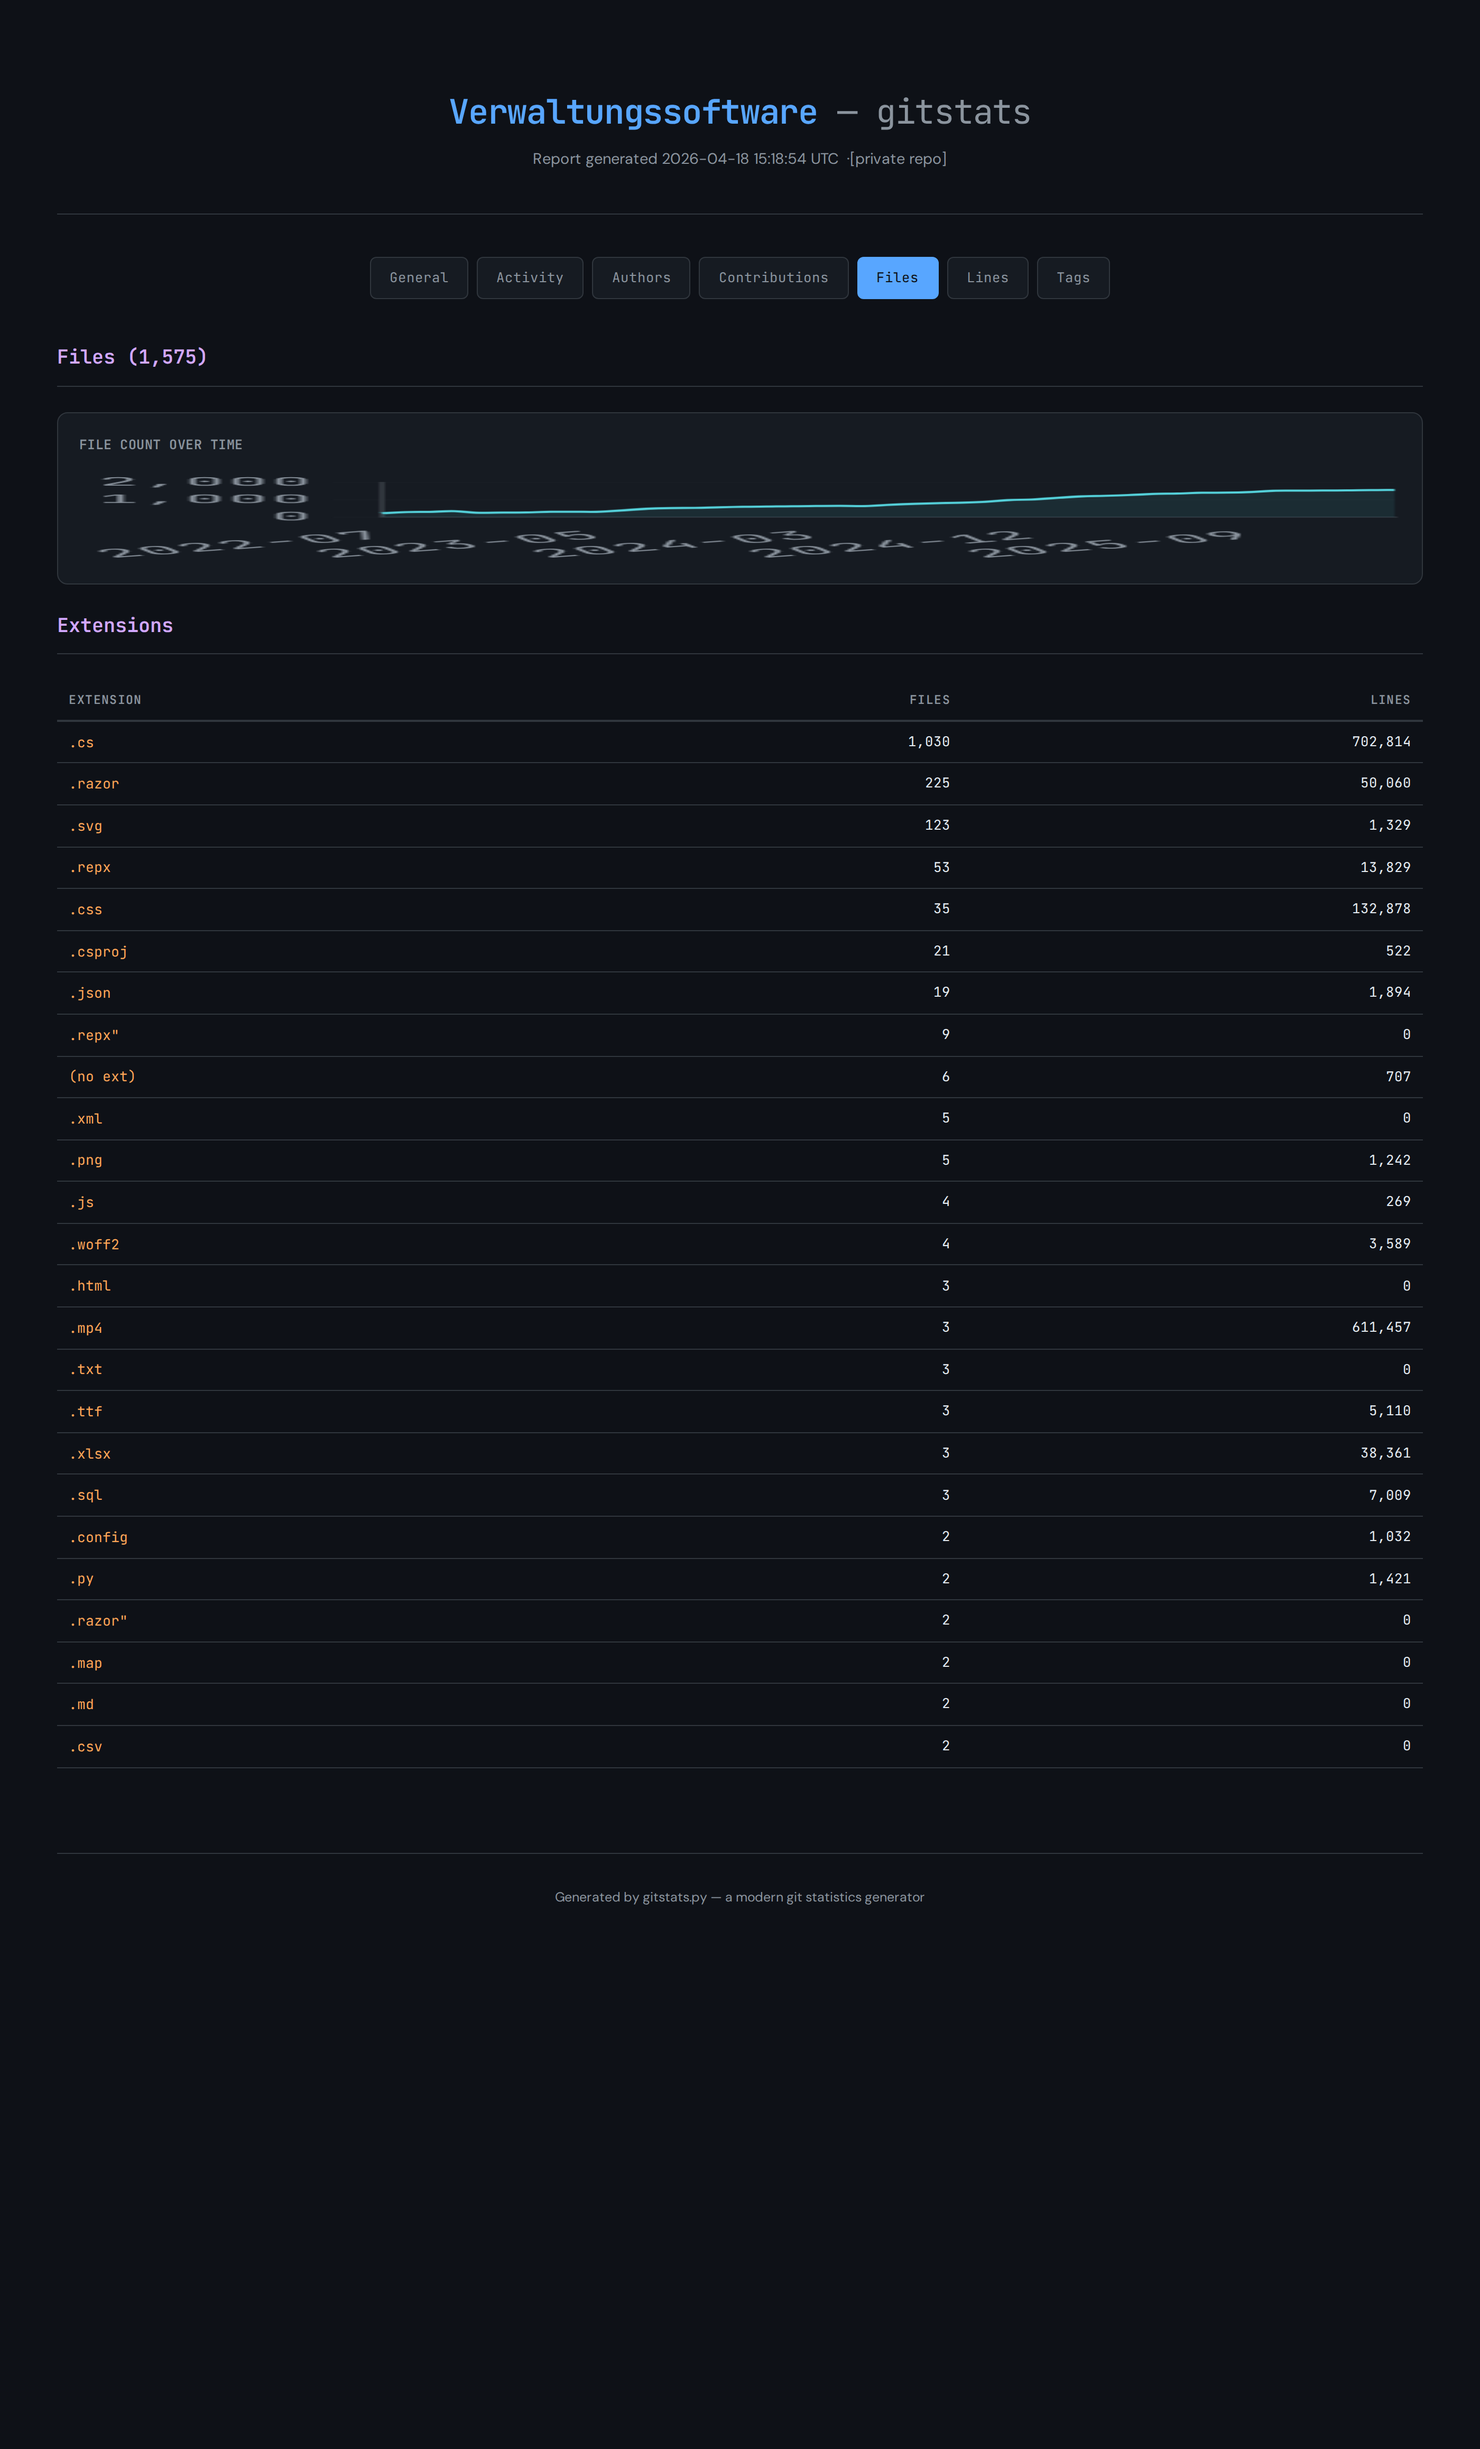
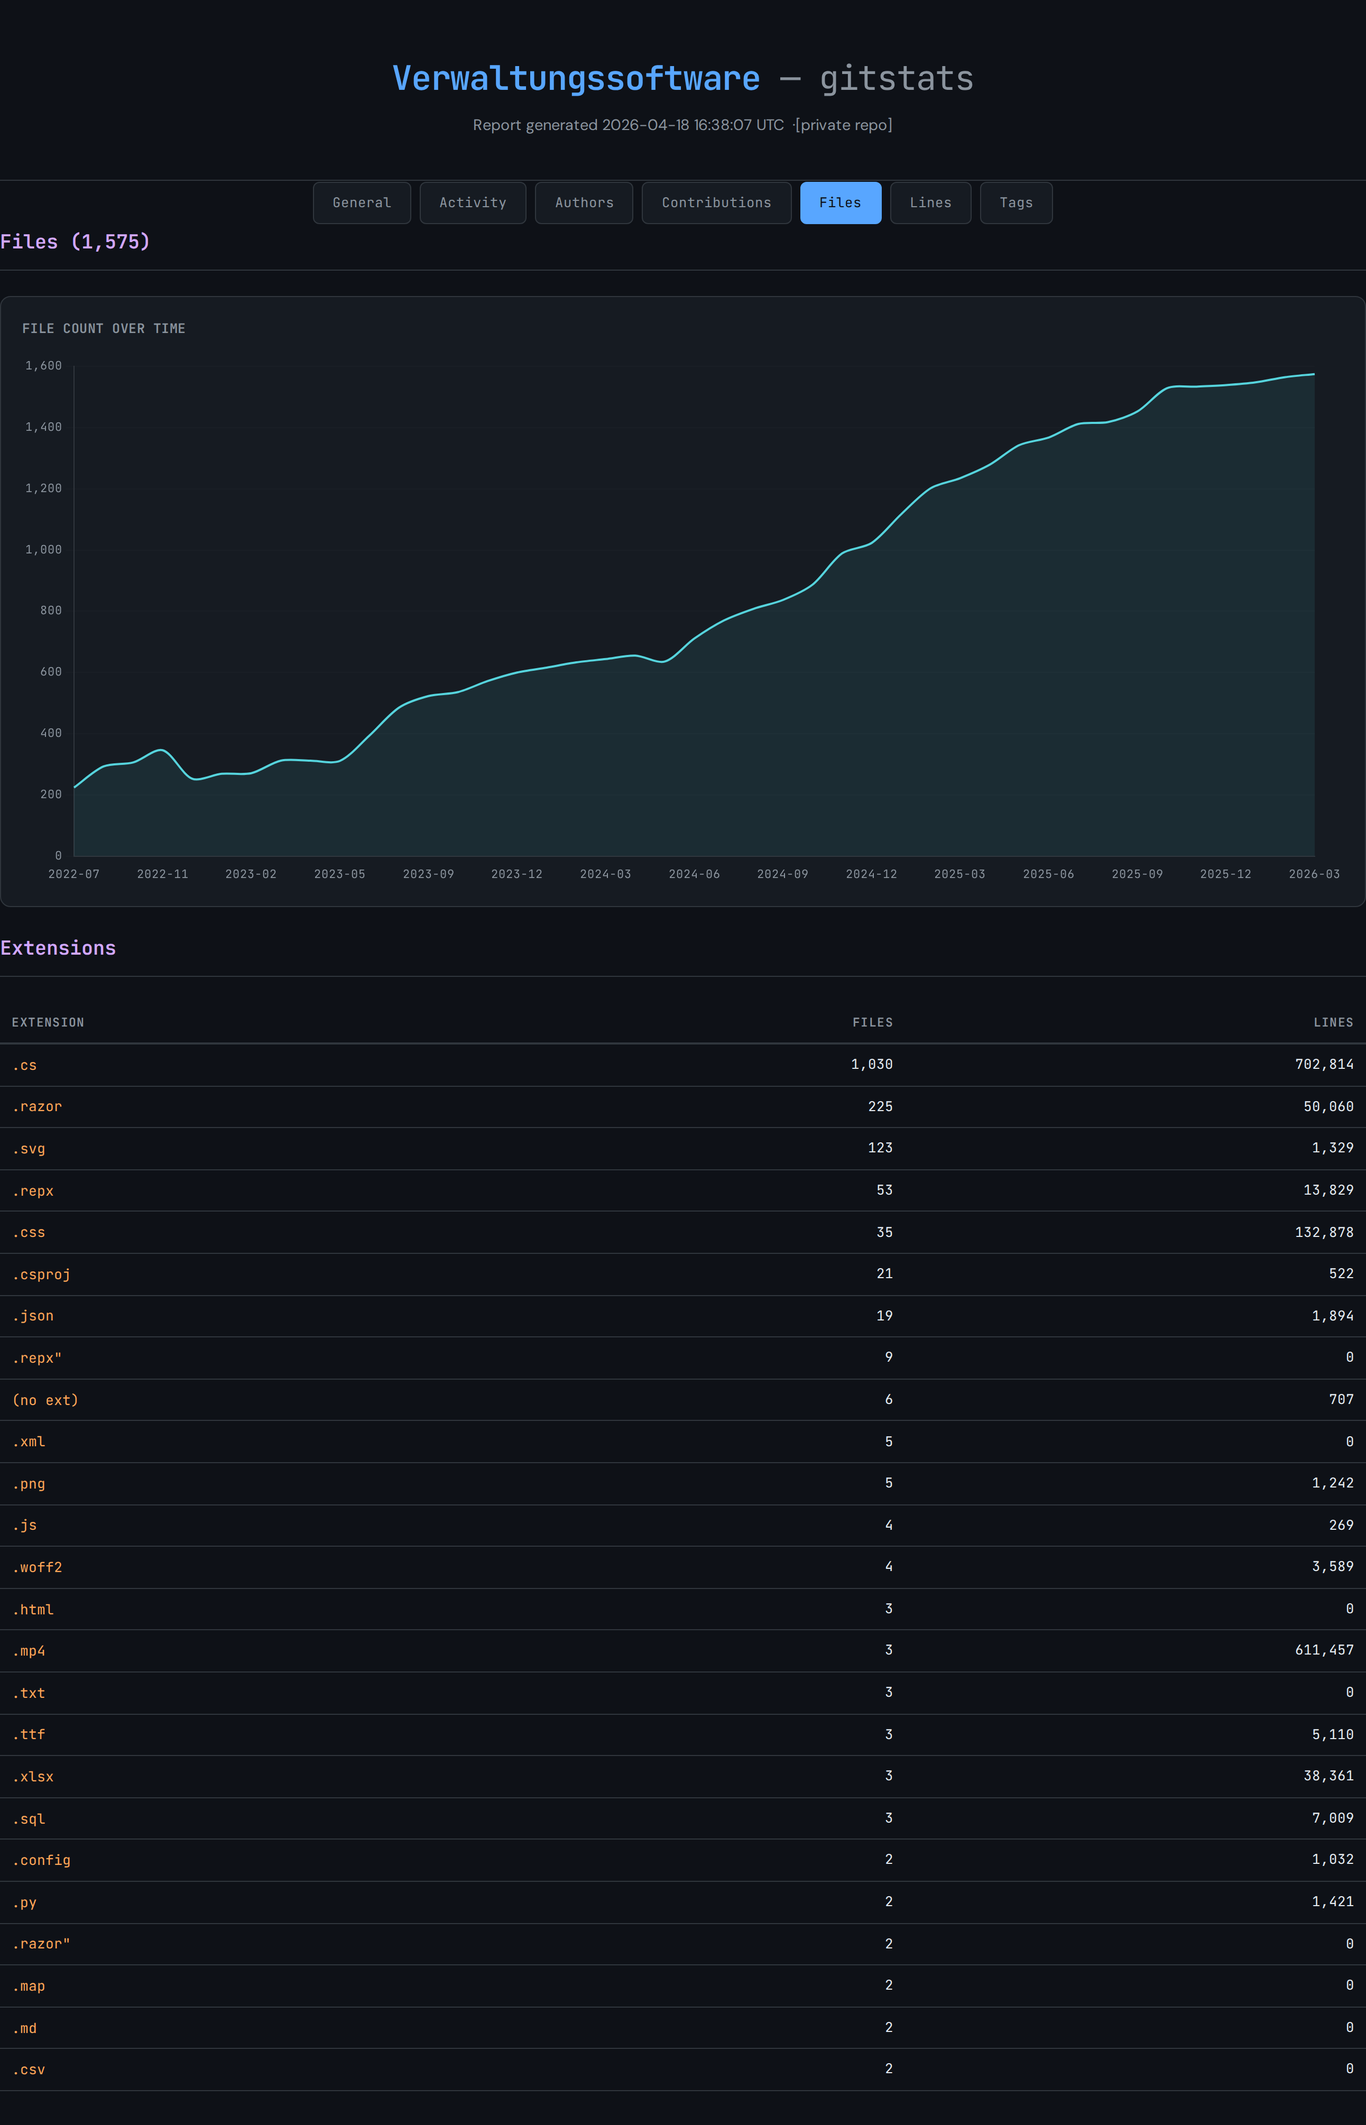
Fix chart rendering in screenshots and add CLAUDE.md
Charts rendered inside display:none sections measured 0-width containers,
producing broken axis layouts. Fix: patch HTML to show all sections before
load, init all charts at correct width, then element-screenshot each section
and PIL-composite with header+nav — no show/hide toggling during capture.

diff --git a/docs/sample_report.html b/docs/sample_report.html
@@ -391,7 +391,7 @@ footer {
 
 <header>
     <h1>REDACTED_REPO <span>— gitstats</span></h1>
-    <p>Report generated 2026-04-18 15:18:54 UTC &nbsp;·[private repo]</p>
+    <p>Report generated 2026-04-18 16:38:07 UTC &nbsp;·[private repo]</p>
 </header>
 
 <nav>

diff --git a/docs/screenshot.py b/docs/screenshot.py
@@ -170,6 +170,20 @@ def obfuscate(html: str) -> str:
 async def take_screenshots(html_path: Path):
     from playwright.async_api import async_playwright
 
+    # Patch the HTML so ALL sections are display:block before any JS runs.
+    # Charts inside display:none measure 0-width → broken axis layouts.
+    # We keep all sections visible throughout and clip each screenshot to
+    # the relevant section's bounding box — no show/hide toggling at all.
+    patched_path = html_path.parent / (html_path.stem + '_screenshot.html')
+    src = html_path.read_text(encoding='utf-8')
+    src = src.replace(
+        '</head>',
+        '<style>.section{display:block!important}</style></head>',
+        1,
+    )
+    # Also pre-mark all sections active so nav highlights look right per screenshot
+    patched_path.write_text(src, encoding='utf-8')
+
     async with async_playwright() as p:
         browser = await p.chromium.launch()
         page = await browser.new_page(
@@ -177,33 +191,65 @@ async def take_screenshots(html_path: Path):
             device_scale_factor=2,
         )
 
-        await page.goto(f'file://{html_path}', wait_until='networkidle')
-        await page.wait_for_timeout(2000)  # fonts + initial render
+        await page.goto(f'file://{patched_path}', wait_until='networkidle')
+        await page.wait_for_timeout(500)
+
+        # Trigger every section's lazy init — all visible, correct widths.
+        await page.evaluate('''
+            Object.keys(sectionInits).forEach(sec => {
+                if (!_init[sec]) { _init[sec] = true; sectionInits[sec](); }
+            });
+        ''')
+
+        # Scroll full page slowly so every chart renders and animates.
+        scroll_y = 0
+        total_h = await page.evaluate('document.documentElement.scrollHeight')
+        while scroll_y < total_h:
+            scroll_y = min(scroll_y + 600, total_h)
+            await page.evaluate(f'window.scrollTo(0, {scroll_y})')
+            await page.wait_for_timeout(120)
+            total_h = await page.evaluate('document.documentElement.scrollHeight')
+        await page.evaluate('window.scrollTo(0, 0)')
+        await page.wait_for_timeout(2000)
 
         for sec_name, filename in SECTIONS:
             print(f'  {sec_name}...')
 
-            await page.click(f'nav a[data-sec="{sec_name}"]')
-            await page.evaluate('window.scrollTo(0, 0)')
-            await page.wait_for_timeout(800)
+            # Highlight the correct nav tab
+            await page.evaluate(f'''
+                document.querySelectorAll("nav a").forEach(a =>
+                    a.classList.toggle("active", a.dataset.sec === "{sec_name}"));
+            ''')
+            await page.wait_for_timeout(200)
 
-            # Scroll slowly to trigger lazy chart inits
-            scroll_y = 0
-            total_h = await page.evaluate('document.documentElement.scrollHeight')
-            while scroll_y < total_h:
-                scroll_y = min(scroll_y + 600, total_h)
-                await page.evaluate(f'window.scrollTo(0, {scroll_y})')
-                await page.wait_for_timeout(150)
-                total_h = await page.evaluate('document.documentElement.scrollHeight')
+            # Build a composite: screenshot the sticky top bar + the section element.
+            # We render the top (header+nav) and section separately then paste them.
+            top_el = await page.query_selector('header')
+            nav_el = await page.query_selector('nav')
+            sec_el = await page.query_selector(f'#sec-{sec_name}')
 
-            await page.evaluate('window.scrollTo(0, 0)')
-            await page.wait_for_timeout(1500)
+            top_img_bytes  = await top_el.screenshot()
+            nav_img_bytes  = await nav_el.screenshot()
+            sec_img_bytes  = await sec_el.screenshot()
+
+            from PIL import Image
+            import io
+            top_img = Image.open(io.BytesIO(top_img_bytes))
+            nav_img = Image.open(io.BytesIO(nav_img_bytes))
+            sec_img = Image.open(io.BytesIO(sec_img_bytes))
+
+            total_h = top_img.height + nav_img.height + sec_img.height
+            composite = Image.new('RGB', (sec_img.width, total_h), (13, 17, 23))
+            composite.paste(top_img, (0, 0))
+            composite.paste(nav_img, (0, top_img.height))
+            composite.paste(sec_img, (0, top_img.height + nav_img.height))
 
             out = SCRIPT_DIR / filename
-            await page.screenshot(path=str(out), full_page=True)
+            composite.save(str(out))
             print(f'    → {out}')
 
         await browser.close()
+        patched_path.unlink(missing_ok=True)
 
 # ── Main ──────────────────────────────────────────────────────────────────────
 

diff --git a/current-CLAUDE.md b/current-CLAUDE.md
@@ -1,0 +1,101 @@
+# CLAUDE.md — gitstats (working copy)
+
+> **Versioning**: This file (`current-CLAUDE.md`) tracks in-progress work.
+> When a batch of changes is pushed, replace `CLAUDE.md` with this file's content.
+> On revert, restore the `CLAUDE.md` that matches the target commit — `current-CLAUDE.md`
+> can be discarded or reset. Never commit `current-CLAUDE.md` changes as a standalone
+> commit; bundle them with the actual code changes they describe.
+
+---
+
+## What this project is
+
+`gitstats.py` — a single-file Python script that analyzes a git repository and produces
+a self-contained, dark-themed HTML report with Chart.js charts and interactive tables.
+
+**Output**: one `index.html` file, no external dependencies at runtime.
+
+**Usage**: `python3 gitstats.py <repo_path> [output_dir]`
+
+---
+
+## Repo layout
+
+```
+gitstats.py            # main script — all HTML/CSS/JS is generated inline here
+docs/
+  screenshot.py        # Playwright script: generates obfuscated sample + screenshots
+  sample_report.html   # obfuscated demo report (committed, regenerated by screenshot.py)
+  screenshot-*.png     # section screenshots used in README
+  CLAUDE.md            # stable doc (matches last pushed state)
+  current-CLAUDE.md    # this file — in-progress notes
+README.md
+```
+
+---
+
+## Features implemented
+
+- Commit count matching GitHub (uses `git rev-list HEAD --count`, not `--all`)
+- Per-author commit list modal: click author name → modal with hash, date, message, GitHub link
+- GitHub remote URL auto-detected from `git remote get-url origin` (SSH + HTTPS)
+- Lazy section init: charts only render when their nav tab is first clicked
+- Chart.js charts: activity (hour/dow/month/year/monthly-line), heatmap, authors bar,
+  contributions per-author, files-over-time, LOC-over-time
+- Obfuscation script (`docs/screenshot.py`) replaces author names + short hashes,
+  fixes a handful of personally-revealing commit messages, clears GitHub base URL
+
+---
+
+## Screenshot rendering — root cause + fix
+
+**Problem**: Charts rendered inside `display:none` sections measure 0-width containers.
+Chart.js uses that 0-width to size axis labels, producing broken/squished layouts
+(rotated labels eating all vertical space, flat bars, etc.). Contributions section was
+unaffected because its charts are built dynamically on first click, after the section
+is already visible.
+
+**Failed approaches**:
+- `add_style_tag` after `page.goto` — wiped by navigation
+- `add_style_tag` after load, then `style.remove()` before screenshots — nav click
+  triggers chart `resize()` which recalculates with wrong dimensions
+- Destroy + reinit via `sectionInits[sec]()` after clicking nav — same resize problem
+
+**Working fix** (in `docs/screenshot.py`):
+1. Patch the HTML file before loading: inject `<style>.section{display:block!important}</style>` into `<head>`
+2. After load, call every `sectionInits[sec]()` explicitly — all charts render at full 1400px width
+3. Scroll full page so all content is rendered and animations complete
+4. Per screenshot: use Playwright's **element screenshot** (`el.screenshot()`) on the
+   `header`, `nav`, and `#sec-{name}` elements separately, then PIL-composite them
+   into one image — no show/hide toggling, no chart resize triggered
+
+---
+
+## Obfuscation rules (docs/screenshot.py)
+
+- Author names: replaced via `AUTHOR_MAP` dict (6 entries, real → fake Western names)
+- Short hashes in `<code>` tags: replaced with deterministic MD5-based fakes
+- Full hashes in JSON `authorCommits`: replaced with SHA1-based fakes
+- Commit messages: only fix unintelligible/revealing ones via `MESSAGE_FIXUPS` dict
+  (keep "reste migrations", LOC values, etc. as-is — they're fine)
+- `githubBase` in JSON: cleared to `""` so modal links don't point to real commits
+- Repo path: replaced with `/private/REDACTED_REPO`
+- Remote URL in subtitle: replaced with `[private repo]`
+
+---
+
+## Known issues / TODO
+
+- [ ] Tags section not yet implemented in `gitstats.py` (nav tab exists, section is empty)
+- [ ] No tests — all verification is manual/visual via screenshots
+- [ ] `docs/screenshot.py` depends on `pillow` (`pip install pillow`) in addition to playwright
+
+---
+
+## Rules for this project
+
+- **NEVER auto-push** — always ask before `git push`
+- Commit `current-CLAUDE.md` is never pushed alone; bundle with code changes
+- When reverting: `git reset --hard <target>` cleans everything including screenshots;
+  `current-CLAUDE.md` can be manually restored or discarded
+- Default repo for screenshots: `/private/repo`

diff --git a/CLAUDE.md b/CLAUDE.md
@@ -1,0 +1,77 @@
+# CLAUDE.md — gitstats
+
+> **Versioning**: `current-CLAUDE.md` tracks in-progress work and is updated alongside
+> code changes. When changes are pushed, its content replaces this file. On revert,
+> restore the `CLAUDE.md` that matches the target commit — `current-CLAUDE.md` can be
+> discarded. Never commit `current-CLAUDE.md` standalone; bundle it with code changes.
+
+---
+
+## What this project is
+
+`gitstats.py` — a single-file Python script that analyzes a git repository and produces
+a self-contained, dark-themed HTML report with Chart.js charts and interactive tables.
+
+**Output**: one `index.html` file, no external dependencies at runtime.
+
+**Usage**: `python3 gitstats.py <repo_path> [output_dir]`
+
+---
+
+## Repo layout
+
+```
+gitstats.py            # main script — all HTML/CSS/JS is generated inline here
+docs/
+  screenshot.py        # Playwright script: generates obfuscated sample + screenshots
+  sample_report.html   # obfuscated demo report (committed, regenerated by screenshot.py)
+  screenshot-*.png     # section screenshots used in README
+  CLAUDE.md            # this file — matches last pushed state
+  current-CLAUDE.md    # in-progress notes (not always committed)
+README.md
+```
+
+---
+
+## Features implemented
+
+- Commit count matching GitHub (`git rev-list HEAD --count`, not `--all`)
+- Per-author commit list modal: click author name → modal with hash, date, message, GitHub link
+- GitHub remote URL auto-detected (SSH + HTTPS)
+- Lazy section init: charts only render when their nav tab is first clicked
+- Chart.js charts: activity (hour/dow/month/year/monthly-line), heatmap, authors bar,
+  contributions per-author, files-over-time, LOC-over-time
+- Obfuscation + screenshot pipeline (`docs/screenshot.py`)
+
+---
+
+## Screenshot rendering — root cause + fix
+
+**Problem**: Charts rendered inside `display:none` sections measure 0-width containers →
+broken axis layouts (rotated labels eating vertical space, flat bars).
+
+**Fix** (in `docs/screenshot.py`):
+1. Patch HTML before loading: inject `<style>.section{display:block!important}</style>`
+2. Call every `sectionInits[sec]()` after load — all charts render at correct 1400px width
+3. Scroll full page so all content renders
+4. Screenshot each section by PIL-compositing `header` + `nav` + `#sec-{name}` element
+   screenshots — no show/hide toggling, no chart resize triggered
+
+---
+
+## Obfuscation rules (docs/screenshot.py)
+
+- Author names: `AUTHOR_MAP` dict (real → fake)
+- Short hashes `<code>` tags: deterministic MD5 fakes
+- Full hashes in JSON: SHA1 fakes
+- Commit messages: only fix unintelligible/revealing ones via `MESSAGE_FIXUPS`
+- `githubBase` cleared to `""` — modal links don't point to real commits
+- Repo path → `/private/REDACTED_REPO`, remote URL → `[private repo]`
+
+---
+
+## Rules
+
+- **NEVER auto-push** — always ask before `git push`
+- Default screenshot repo: `/private/repo`
+- `docs/screenshot.py` requires `pillow` + `playwright` (`pip install pillow playwright`)
